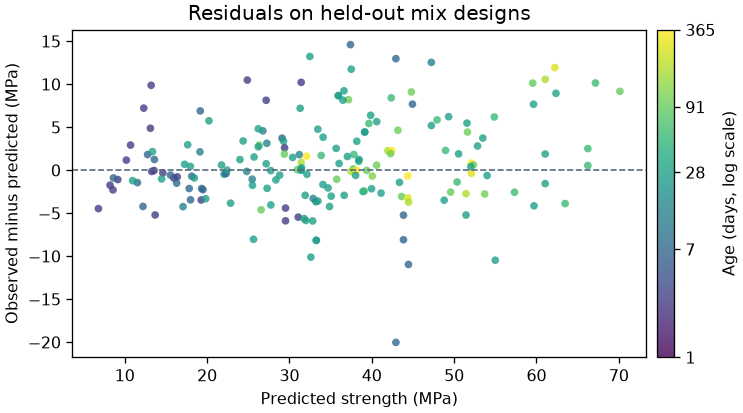
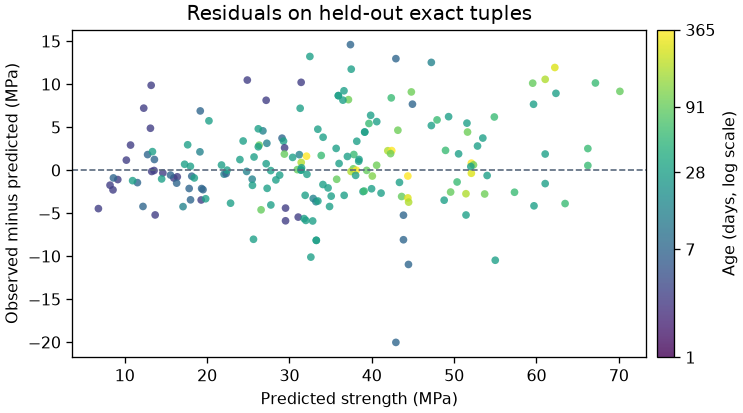
docs(strength): record tolerance sensitivity and stratified uncertainty

Changed region(s): [[0.2476, 0.0, 0.712, 0.0581]]

diff --git a/docs/adr/0003-strength-evaluation-protocol.md b/docs/adr/0003-strength-evaluation-protocol.md
@@ -1,26 +1,38 @@
-# 0003 Evaluate strength on unseen mix designs
+# 0003 Evaluate strength on unseen exact ingredient tuples
 
 Accepted on 2026-11-26.
 
 The UCI concrete strength workbook includes the same formulation at several testing ages. A row
 split can give the model information about a validation mix from another age. The deployment
-question is how well the model estimates strength for a previously unseen formulation.
+benchmark estimates error for ingredient tuples absent from fitting. The workbook cannot identify
+independent production batches.
 
 ## Data and splits
 
 - Drop exact duplicates over the eight inputs and target once. With no specimen or batch IDs,
   identical entries add no identifiable independent evidence. Keep rows with the same formulation
   and age if their measured strengths differ.
-- Identify a mix by the exact tuple of seven ingredient amounts. Testing age is excluded from the
-  key. The workbook has limited metadata for identifying near-duplicates or shared source batches.
+- Keep the original exact tuple of seven ingredient amounts as the primary grouping key. It is
+  reproducible, keeps every repeated observation of the same recorded composition together, and
+  preserves the original holdout. The workbook provides no batching or assay precision metadata to
+  justify a universal clustering tolerance. Testing age is excluded from the key.
 - Assign 20% of mix IDs to the frozen test partition. Stratify by quantile bins of mean strength per
   mix. Begin with five bins, reduce the count for small samples or tied values, and use an
   unstratified split when feasible bins cannot be formed. This is the only operation that uses
   labels outside development to make a split. Row counts and individual strength distributions
-  remain approximate because mix sizes and ages vary.
+  remain approximate because mix sizes and ages vary. Save the original stratum for each test mix.
 - Assign 25% of the remaining mix IDs uniformly at random to calibration. The rest are available
   for fitting and model selection. Save partition indices and verify the data checksum before
   evaluation.
+
+### Sensitivity to near-duplicate ingredients
+
+Fix the audit rule from the review before rerunning the benchmark. A test tuple has a nearby fitting
+tuple if all seven absolute ingredient differences are at most 0.5 kg/m³. Compare it only with the
+final fitting partition, ignoring age and strength. Keep the split, model selection, and calibration
+fixed. From the frozen winner's existing test predictions, report the counts and row-weighted MAE
+for tuples with and without a nearby fitting tuple. This threshold probes similarity in recorded
+inputs. Batch provenance remains unknown and the subset differences are descriptive.
 
 ## Selection and evaluation
 
@@ -30,26 +42,32 @@ constructed group folds from that fold's fitting rows. The lowest mean outer MAE
 winner. Evaluate that family and feature set in an otherwise matched nested random-row CV as a
 leakage diagnostic. Refit the winner with grouped tuning on all fitting rows, including rows used
 as outer validation. Feature transformations and standardisation are fitted inside the pipelines.
+Use equal fold weights for selection. Also report pooled out-of-fold MAE by weighting each validation
+prediction equally across folds and repeats. Grouped and random-row folds differ in size, so the
+comparison describes a split-protocol effect conditional on the selected model and feature set.
 
 Mean, sample standard deviation and repeat-mean 95% Student t intervals describe outer fold
 scores. The interval is `mean ± t_(0.975, R-1) × SD(repeat means) / sqrt(R)` for `R` repeats. Repeats
 reuse the same observations, so the interval measures sensitivity to the splits and is too limited
 for formal claims about differences between models. The smoke config uses a single repeat and
 reports no interval. Test metric intervals use the 2.5th and 97.5th percentiles of at least 2,000
-bootstrap samples of test mixes. Draw as many mixes as are in the holdout, sampling with
-replacement and including every measurement of each draw. Point estimates and each bootstrap
-replicate weight individual measurements equally.
+bootstrap samples of test mixes. Sample complete mixes with replacement within each of the
+holdout's original mean-strength strata and preserve the mix count in every stratum. Include every
+measurement of each draw. Point estimates and each replicate weight measurements equally.
 
 Compute one calibration score per mix, the greatest absolute residual across its ages. For `n`
-calibration mixes, use the `ceil((n + 1) × 0.90)`-th smallest score as the symmetric radius. Under
-group exchangeability this targets joint coverage over the measured ages of a new mix. The
-strength-stratified test partition and new deployment populations can depart from exchangeability.
-Report coverage both by measurement and by whole mix, plus empirical age-specific coverage and
-mean width. Fixed-width intervals are a starting point for error characterisation. [Conformal
-method reference](https://arxiv.org/abs/2107.07511)
+calibration mixes, use the `ceil((n + 1) × 0.90)`-th smallest score as the symmetric radius. The
+nominal 90% target is joint across the recorded measurements of a new mix. With 86 calibration
+mixes, the 79th score corresponds to a rank probability of 79/87 (90.8%) under group score
+exchangeability and no ties. Test membership is stratified on observed mean strength, while
+calibration is drawn from the remainder. Exchangeability is an assumption for the rank argument
+and this split gives no guarantee. Report empirical counts and coverage by measurement and by
+whole mix, plus empirical age-specific coverage and mean width. [Conformal method reference](https://arxiv.org/abs/2107.07511)
 
 Test labels never guide features, model selection, tuning or interval calibration. Only the frozen
-winner scores the test partition, through `baulens strength evaluate`. It writes holdout predictions
-once per fitted artifact and reuses them when rebuilding reports. Feature permutation happens on
+winner scores the test partition, through `baulens strength evaluate`. Training stages the pipeline
+and diagnostics together and publishes their checksums in a manifest. Evaluation verifies them and
+uses the serialized fit's SHA-256 to identify holdout predictions. It scores each fitted artifact
+once and reuses its predictions when rebuilding reports. Feature permutation happens on
 grouped outer validation folds. SHAP plots use calibration inputs. Future changes informed by these
 holdout results require a fresh external holdout for another independent performance claim.

diff --git a/docs/results/strength.md b/docs/results/strength.md
@@ -1,6 +1,6 @@
 # Concrete compressive strength
 
-**Histogram GBM (raw + engineered)** (`9a6c8beadf10`) achieved **3.83 MPa MAE** on 86 unseen mix designs. The 90% prediction intervals covered 95.7% of measurements and 93.0% of entire mixes.
+**Histogram GBM (raw + engineered)** (`9a6c8beadf10`) achieved **3.83 MPa MAE** on 86 unseen exact ingredient tuples. With a nominal 90% joint per-mix coverage target, the intervals covered 180/188 measurements (95.7%) and every measurement for 80/86 mixes (93.0%). These are empirical results. The outcome-stratified test split leaves exchangeability with the calibration mixes unestablished.
 
 ## Data and protocol
 
@@ -58,28 +58,37 @@ Engineered minus raw MAE (MPa, lower is better) for each family.
 
 The comparison uses the selected family and feature set, the same development rows, fold counts, seeds and tuning grid, and row splits at both CV levels.
 
-| Protocol | MAE (MPa) | RMSE (MPa) | R² |
-| --- | ---: | ---: | ---: |
-| Grouped | 4.30 ± 0.64 [4.04, 4.56] | 6.10 ± 1.03 [5.51, 6.70] | 0.86 ± 0.06 [0.83, 0.88] |
-| Random row | 3.22 ± 0.34 [3.03, 3.40] | 4.84 ± 0.70 [4.57, 5.11] | 0.91 ± 0.02 [0.90, 0.93] |
+| Protocol | Equal-fold MAE (MPa) | RMSE (MPa) | R² | Pooled OOF MAE (MPa) |
+| --- | ---: | ---: | ---: | ---: |
+| Grouped | 4.30 ± 0.64 [4.04, 4.56] | 6.10 ± 1.03 [5.51, 6.70] | 0.86 ± 0.06 [0.83, 0.88] | 4.34 |
+| Random row | 3.22 ± 0.34 [3.03, 3.40] | 4.84 ± 0.70 [4.57, 5.11] | 0.91 ± 0.02 [0.90, 0.93] | 3.22 |
 
-In random-row CV, 74.9% of validation rows shared their mix design with a fitting row. Grouped minus random-row MAE was +1.09 MPa. The grouped score estimates error for an unseen formulation.
+In random-row CV, 74.9% of validation rows shared their mix design with a fitting row. Grouped minus random-row MAE was +1.09 MPa. Pooled out-of-fold (OOF) MAE weights validation predictions equally across folds and repeats. Fold sizes differ, so this comparison describes the split-protocol difference for the selected model and feature set.
 
-## Held-out mix designs
+## Held-out exact ingredient tuples
 
-95% percentile intervals use 2,000 bootstrap replicates. Each samples complete test mixes with replacement and weights all measurements equally. The bootstrap describes holdout uncertainty for the frozen fit.
+95% percentile intervals use 2,000 bootstrap replicates. Each samples complete test mixes with replacement within their original mean-strength strata, preserving the test mix count in each stratum (18, 17, 17, 17, 17). Each replicate weights measurements equally and describes holdout uncertainty for the frozen fit.
 
 | Metric | Estimate | 95% group bootstrap CI |
 | --- | ---: | ---: |
-| MAE (MPa) | 3.827 | [3.001, 4.682] |
-| RMSE (MPa) | 5.166 | [4.056, 6.212] |
-| R² | 0.895 | [0.864, 0.923] |
+| MAE (MPa) | 3.827 | [3.049, 4.614] |
+| RMSE (MPa) | 5.166 | [4.117, 6.119] |
+| R² | 0.895 | [0.868, 0.922] |
 
-![Residuals versus predicted strength on unseen mixes](../figures/strength/residuals.png)
+![Residuals versus prediction on held-out tuples](../figures/strength/residuals.png)
+
+### Sensitivity to nearby fitting tuples
+
+A fitting tuple is nearby if each ingredient differs by at most 0.5 kg/m³. Age and strength are excluded. This audit uses the same frozen test predictions. The counts quantify similarity in ingredients. The workbook omits batch IDs, so the slice MAEs are descriptive.
+
+| Test subset | Measurements | Exact tuples | MAE (MPa) |
+| --- | ---: | ---: | ---: |
+| With a nearby fitting tuple | 29 | 22 | 4.48 |
+| Without a nearby fitting tuple | 159 | 64 | 3.71 |
 
 ### Error and coverage by age
 
-Split conformal uses one maximum absolute residual per calibration mix. The finite-sample order statistic gave a radius of 10.86 MPa. The same radius applies to each prediction. With exchangeable mixes, this construction targets joint coverage across the measured ages of a new mix. Strength stratification and source shift can affect exchangeability. Empirical bucket coverage can vary in small samples. Every measurement was covered in 93.0% of test mixes. Positive bias means the model underpredicted the observed strength.
+Split conformal uses one maximum absolute residual per calibration mix. The score at rank 79 of 86 gave a fixed radius of 10.86 MPa. This corresponds to rank probability 79/87 (90.8%) under mix-score exchangeability and no ties. Exchangeability is assumed for that argument and is unestablished with an outcome-stratified test split. Empirical bucket coverage can vary in small samples. Positive bias means the model underpredicted the observed strength.
 
 | Age (days) | Rows | Mixes | MAE (MPa) | Bias (MPa) | Coverage | Mean width (MPa) |
 | --- | ---: | ---: | ---: | ---: | ---: | ---: |
@@ -148,4 +157,4 @@ uv run --locked baulens strength train --config configs/strength.yaml
 uv run --locked baulens strength evaluate --config configs/strength.yaml
 ```
 
-Training took 177.2 s on a CPU under shared load. The local `artifacts/strength/` directory contains every fold score, test prediction, and a machine-readable copy of the metrics. Evaluation reuses cached predictions for the identical fitted model.
[1 lines of base64/hex data omitted]

diff --git a/docs/model_cards/strength.md b/docs/model_cards/strength.md
@@ -5,7 +5,10 @@
 Histogram gradient boosting regression, scikit-learn. Model `9a6c8beadf10` uses the eight raw
 inputs plus eight engineered features. The final fit used 616 measurements across 256 exact mix
 designs. A separate 201 measurements across 86 mixes supplied split-conformal calibration. The
-90% intervals have a fixed half-width of 10.86 MPa for this artifact. See the
+nominal 90% target is joint across a mix's measurements, with one maximum absolute residual
+per calibration mix. The 79th of 86 calibration scores gives a fixed half-width of 10.86 MPa
+and a rank probability of 79/87 (90.8%) under exchangeability with no ties. The holdout uses
+strata based on observed mean strength, so exchangeability with calibration is unestablished. See the
 [evaluation protocol](../adr/0003-strength-evaluation-protocol.md) for the split and selection.
 
 The dataset is I-Cheng Yeh's Concrete Compressive Strength workbook from UCI, licensed CC BY
@@ -33,26 +36,32 @@ outputs. Measure external performance before applying the model in a different s
 
 ## Evaluation
 
-| Metric | Result on 188 measurements from 86 unseen mixes |
+| Metric | Result on 188 measurements from 86 unseen exact ingredient tuples |
 | --- | ---: |
-| MAE (MPa) | 3.83 (95% group bootstrap CI 3.00–4.68) |
-| RMSE (MPa) | 5.17 (4.06–6.21) |
-| R² | 0.895 (0.864–0.923) |
-| Coverage per measurement | 95.7% |
-| Coverage for every measurement of a mix | 93.0% |
+| MAE (MPa) | 3.83 (95% stratified mix bootstrap CI 3.05–4.61) |
+| RMSE (MPa) | 5.17 (4.12–6.12) |
+| R² | 0.895 (0.868–0.922) |
+| Empirical coverage per measurement | 180/188 (95.7%) |
+| Empirical joint coverage per mix | 80/86 (93.0%) |
 | Mean interval width (MPa) | 21.71 |
 
 MAE rose to 7.24 MPa at observed strengths of 60 MPa and above, with a mean underprediction of
 7.24 MPa. That slice contains 11 measurements from four mixes. At ages 1–7 days, the MAE was
 4.59 MPa and coverage was 91.1%. See the [full results](../results/strength.md) for the random-row
-leakage comparison, group bootstrap intervals, and error slices.
+leakage comparison, stratified whole-mix bootstrap intervals, and error slices.
+
+In the tolerance sensitivity analysis, 22 test tuples were within 0.5 kg/m³ per ingredient
+of a fitting tuple. Those 29 measurements had 4.48 MPa MAE. The other 64 tuples had
+3.71 MPa MAE over 159 measurements. Batch provenance is unknown.
 
 ## Integration
 
 `uv run --locked baulens strength train --config configs/strength.yaml` produces
-`artifacts/strength/model/pipeline.joblib` (about 67 KiB) and `metadata.json`. The build needs
-the UCI workbook at the configured path. It does not need test evaluation to make a usable model.
-Load joblib files from a trusted build with the same locked environment.
+`pipeline.joblib` (about 67 KiB), `metadata.json`, and `manifest.json` under
+`artifacts/strength/model/`. Ship all three files for inference. The manifest binds the files to the
+same fitted artifact and the loader verifies them. Use a trusted build with the same locked
+environment. Training needs the UCI workbook at the configured path, and inference can start as
+soon as training publishes the artifact.
 
 ```python
 from pathlib import Path
@@ -65,6 +74,6 @@ predictor = StrengthPredictor.load(Path("artifacts/strength/model"))
 
 Load once at service startup and reuse for predictions. `predict` returns a `StrengthPrediction`
 with the point estimate, interval, input-range flag, five signed SHAP contributions in MPa ordered by
-absolute magnitude, model name, and version. On the Windows CPU laptop under shared load, the
-initial imports took about 5.0 s, `load` including first-time SHAP import took 1.8 s, and median
-warm latency was 22 ms over 30 single-mix calls. Full training took 177 s under shared load.
+absolute magnitude, model name, and version. In the initial Windows CPU benchmark, imports took
+about 5.0 s, `load` including first-time SHAP import took 1.8 s, and median warm latency was 22 ms
+over 30 single-mix calls. The full review rerun took 21.5 min under shared CPU load.

diff --git a/README.md b/README.md
@@ -42,7 +42,7 @@ for module and output conventions.
 ### Strength
 
 Run `make strength` after obtaining the concrete workbook. The [strength results](docs/results/strength.md)
-cover unseen mix designs, the random-row leakage comparison, and prediction intervals. See the
+cover unseen exact ingredient tuples, the random-row comparison, and prediction intervals. See the
 [model card](docs/model_cards/strength.md) for intended use and the inference interface.
 
 ### Datasets
